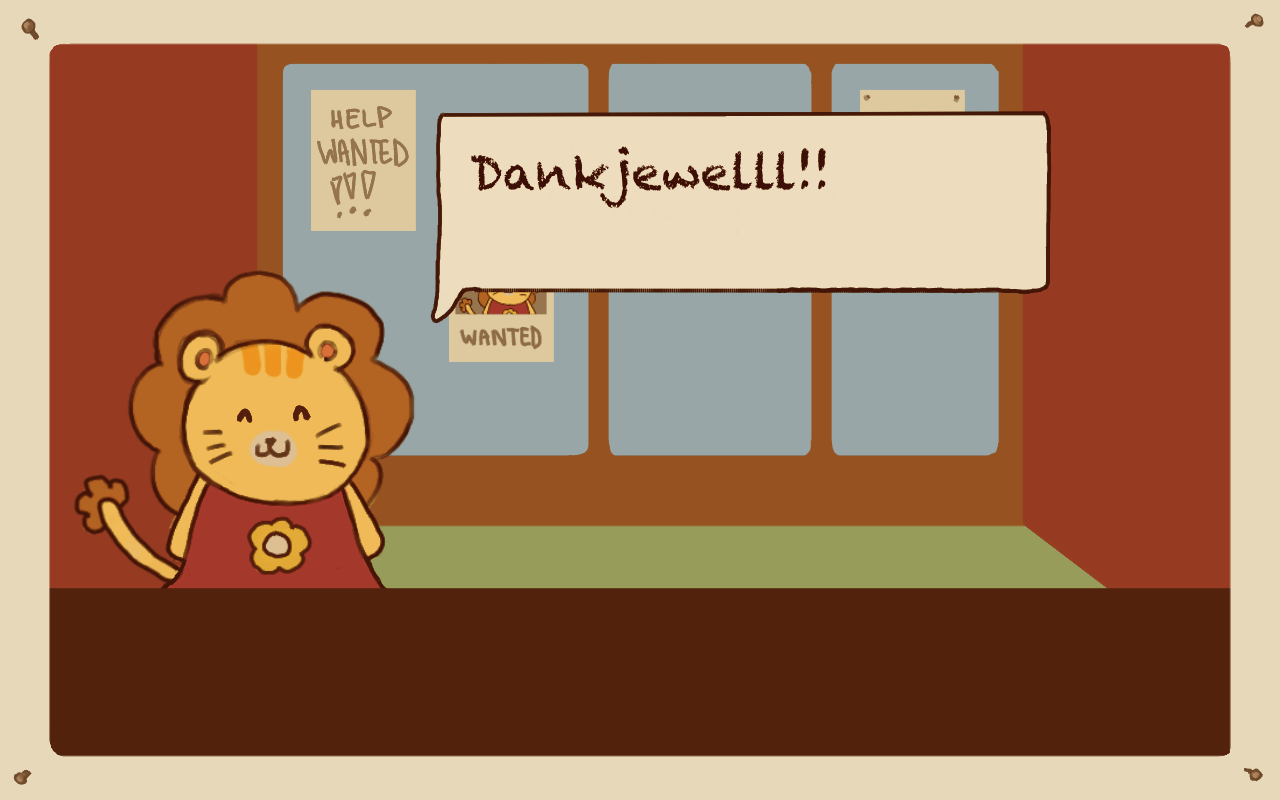
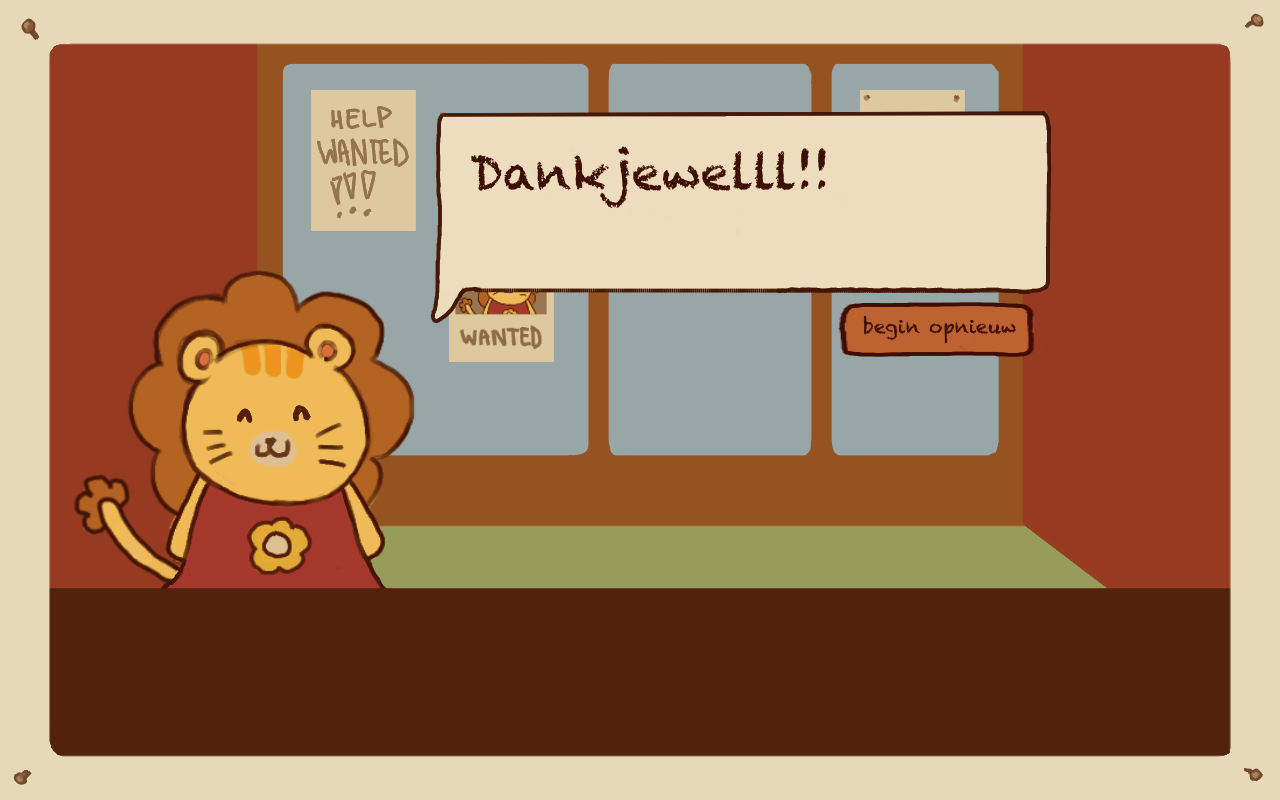
update

Changed region(s): [[0.6562, 0.375, 0.8125, 0.4688]]

diff --git a/js/script.js b/js/script.js
@@ -52,7 +52,7 @@ function NaamtekstEnVolgendeScherm (){
     htmlschermbegin.classList.add("disable")
 
     // bron https://stackoverflow.com/questions/9419263/how-to-play-audio
-
+    // bron soundtrack https://www.youtube.com/watch?v=BicohIakaos
     let muziek = new Audio("soundtrack.mp3");
     muziek.play()
 }
@@ -169,6 +169,16 @@ function naareinde (){
     htmlschermeinde.classList.remove("disable")
     htmlscherm4.classList.add("disable")
 }
+
+const opnieuwknop = document.querySelector("#opnieuwbeginnen");
+
+//  bron reload function https://teamtreehouse.com/community/any-one-know-how-to-make-a-restart-button
+
+opnieuwknop.addEventListener("click", function() {
+    window.location.reload();
+  }
+);
+
 
 ovenstartknop.addEventListener ("click",vuur)
 ovenstopknop.addEventListener ("click",vuurUit)

diff --git a/css/style.css b/css/style.css
@@ -194,6 +194,17 @@ body{
     position: absolute;
     z-index: 3;
 }
+
+
+#opnieuwbeginnen{
+    position: absolute;
+    z-index: 20;
+    width: 11.5em;
+    height: 3.6em;
+    top: 19em;
+    left: 53em;
+}
+
 /* #naareind{
     position: absolute;
     z-index: 5;

diff --git a/index.html b/index.html
@@ -74,6 +74,7 @@
         <!-- <img id = "naareind" src=""> -->
         <img id="laatstescherm" src="images/eindscherm.png">
 
+        <dic id="opnieuwbeginnen"></div>
     </div>
 
 
